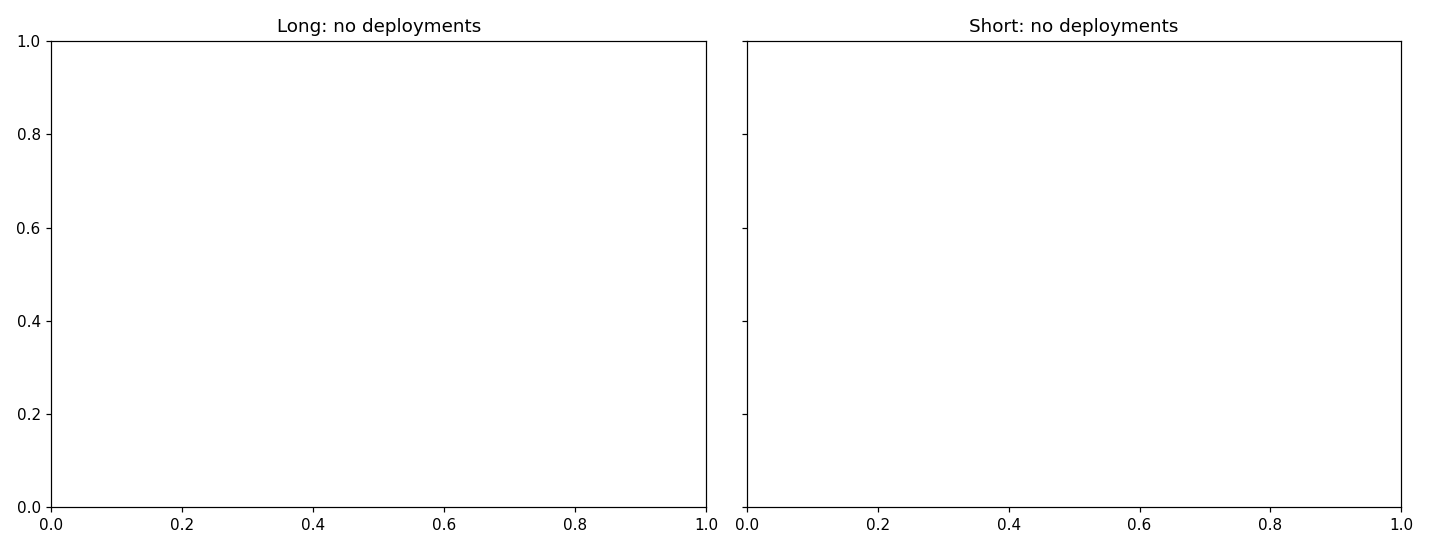
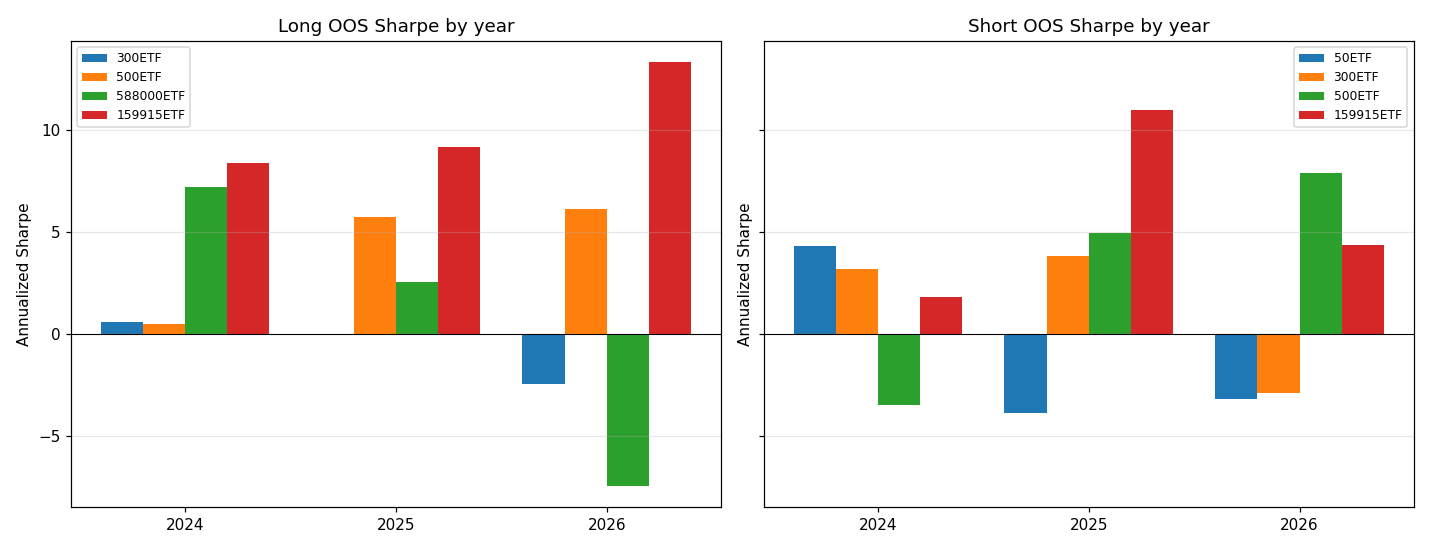
Process

diff --git a/daytrade/report.py b/daytrade/report.py
@@ -192,7 +192,7 @@ def plot_yearly_sharpe_per_side(data: dict, configs: dict):
                     if t >= pd.Timestamp(HOLDOUT_START)})
     fig, axes = plt.subplots(1, 2, figsize=(13, 5), sharey=True)
     for ax, side, sign in [(axes[0], "Long", 1), (axes[1], "Short", -1)]:
-        deployed = [etf for etf in configs if configs[etf].get(side)]
+        deployed = [etf for etf in configs if configs[etf].get(side.lower())]
         if not deployed:
             ax.set_title(f"{side}: no deployments")
             continue
